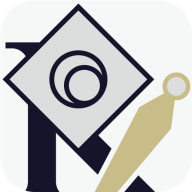
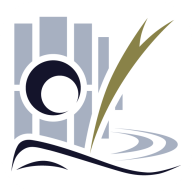
トップを新規に作り直した

diff --git a/src/components/templates/home/Top/WindEffect/index.module.scss b/src/components/templates/home/Top/WindEffect/index.module.scss
@@ -1,0 +1,70 @@
+.container {
+  position: absolute;
+  width: 100%;
+  height: 100%;
+}
+
+.effect {
+  position: absolute;
+  width: 100%;
+  height: 100%;
+  transform: scale(4);
+
+  &.layer1 {
+    left: 0;
+    animation-name: loop1;
+    animation-play-state: running;
+    animation-timing-function: ease-out;
+    animation-iteration-count: infinite;
+    animation-duration: 16s;
+    animation-direction: normal;
+    animation-fill-mode: both;
+    animation-delay: 8s;
+  }
+
+  &.layer2 {
+    right: 0;
+    animation-name: loop2;
+    animation-play-state: running;
+    animation-timing-function: ease-out;
+    animation-iteration-count: infinite;
+    animation-duration: 16s;
+    animation-direction: normal;
+    animation-fill-mode: both;
+    animation-delay: 0s;
+  }
+}
+
+@keyframes loop1 {
+  0% {
+    transform: translateX(-100%);
+    opacity: 0;
+  }
+  20% {
+    opacity: 1;
+  }
+  80% {
+    opacity: 1;
+  }
+  100% {
+    transform: translateX(0%);
+    opacity: 0;
+  }
+}
+
+@keyframes loop2 {
+  0% {
+    transform: translateX(100%);
+    opacity: 0;
+  }
+  20% {
+    opacity: 1;
+  }
+  80% {
+    opacity: 1;
+  }
+  100% {
+    transform: translateX(0%);
+    opacity: 0;
+  }
+}

diff --git a/src/components/templates/home/Top/index.tsx b/src/components/templates/home/Top/index.tsx
@@ -1,12 +1,23 @@
 import styles from "./index.module.scss";
 import Background from "./Background";
+import HoleEffect from "./HoleEffect";
+import Shadow from "./Shadow";
+import WindEffect from "./WindEffect";
 import Logo from "./Logo";
-import { getComponentTemplate } from "src/lib/component";
+import { assignClasses, getComponentTemplate } from "src/lib/component";
+import FixedParallax from "src/components/accessories/FixedParallax";
 
 const Top = getComponentTemplate(() => (
   <div className={styles.container}>
-    <Background className={styles.background} />
-    <Logo className={styles.logo} />
+    <FixedParallax className={styles.parallax} startInnerOrigin={0} endInnerOrigin={-0.8}>
+      <div className={styles.inner}>
+        <Background className={styles.background} />
+        <HoleEffect className={styles.holeEffect} />
+      </div>
+    </FixedParallax>
+    <WindEffect className={assignClasses(styles.windEffect, styles.element)} />
+    <Shadow className={assignClasses(styles.shadow, styles.element)} />
+    <Logo className={assignClasses(styles.logo, styles.element)} />
   </div>
 ));
 

diff --git a/src/components/templates/home/Top/Background/index.tsx b/src/components/templates/home/Top/Background/index.tsx
@@ -1,24 +1,8 @@
-import { useState } from "react";
 import styles from "./index.module.scss";
 import { assignClasses, getComponentTemplate } from "src/lib/component";
-import FixedParallax from "src/components/accessories/FixedParallax";
 
-const Background = getComponentTemplate(() => {
-  const [display, setDisplay] = useState<boolean>(false);
-  const onDisplay = () => setDisplay(true);
-
-  return (
-    <FixedParallax className={styles.parallax} startInnerOrigin={0} endInnerOrigin={-0.5}>
-      <div className={styles.inner} ref={onDisplay}>
-        <img
-          className={assignClasses(styles.image, display ? styles.active : styles.inactive)}
-          src="/img/top.jpg"
-          alt="トップ画像"
-        />
-        <div className={assignClasses(styles.effect, display ? styles.active : styles.inactive)} />
-      </div>
-    </FixedParallax>
-  );
-});
+const Background = getComponentTemplate(() => (
+  <img className={assignClasses(styles.image)} src="/img/top/background.jpg" alt="背景" />
+));
 
 export default Background;

diff --git a/src/components/templates/home/Top/Logo/index.module.scss b/src/components/templates/home/Top/Logo/index.module.scss
@@ -1,24 +1,43 @@
-.fixer {
-  position: relative;
-  width: 100%;
-  height: 100%;
-  bottom: -25%;
-  transition: opacity 0.6s ease-out 1s, left 0.6s ease-out 1s;
+.container {
+  position: absolute;
+  width: 50%;
+  top: 0;
+  left: 50%;
+  transform: translateX(-50%);
 
-  &.inactive {
-    left: 5%;
-    opacity: 0;
-  }
-
-  &.active {
-    left: 0;
-    opacity: 1;
-  }
-
-  img {
-    object-fit: contain;
+  .background {
     width: 100%;
-    height: 100%;
-    object-position: bottom left;
+
+    .image {
+      width: 100%;
+    }
+  }
+
+  .main {
+    position: absolute;
+    width: 20%;
+    left: 50%;
+    bottom: 40%;
+    transform: translateX(-50%);
+
+    .logo {
+      width: 100%;
+      height: 100%;
+    }
+
+    .name {
+      font-family: fot-tsukubrdgothic-std, sans-serif;
+      font-weight: 400;
+      font-style: normal;
+      color: #a7b0c1;
+      font-size: 2rem;
+      text-align: center;
+      letter-spacing: 1rem;
+
+      &::after {
+        content: "";
+        margin-right: -1rem;
+      }
+    }
   }
 }

diff --git a/src/components/templates/home/Top/Logo/index.tsx b/src/components/templates/home/Top/Logo/index.tsx
@@ -1,16 +1,17 @@
-import React, { useState } from "react";
+import React from "react";
 import styles from "./index.module.scss";
-import { assignClasses, getComponentTemplate } from "src/lib/component";
+import { getComponentTemplate } from "src/lib/component";
 
-const Logo = getComponentTemplate(() => {
-  const [display, setDisplay] = useState<boolean>(false);
-  const onDisplay = () => setDisplay(true);
-
-  return (
-    <div className={assignClasses(styles.fixer, display ? styles.active : styles.inactive)} ref={onDisplay}>
-      <img src="/img/logo.png" className={styles.image} alt="" />
+const Logo = getComponentTemplate(() => (
+  <div className={styles.container}>
+    <div className={styles.background}>
+      <img className={styles.image} src="/img/top/logo_back.svg" alt="" />
     </div>
-  );
-});
+    <div className={styles.main}>
+      <img className={styles.logo} src="/img/logo.png" alt="" />
+      <h1 className={styles.name}>RineaR</h1>
+    </div>
+  </div>
+));
 
 export default Logo;

diff --git a/src/components/templates/home/Top/Background/index.module.scss b/src/components/templates/home/Top/Background/index.module.scss
@@ -1,46 +1,4 @@
-@use "src/styles/templates";
-
-.parallax {
+.image {
   width: 100%;
   height: 100%;
-
-  .inner {
-    position: relative;
-    width: 100%;
-    height: 100%;
-
-    .image {
-      position: absolute;
-      width: 100%;
-      height: 100%;
-      object-fit: cover;
-      transition: transform 0.6s cubic-bezier(0.5, 1, 0.89, 1) 0s;
-
-      &.inactive {
-        transform: scale(1.3) translateY(10%);
-      }
-
-      &.active {
-        transform: scale(1) translateY(0);
-      }
-    }
-
-    .effect {
-      position: absolute;
-      width: 100%;
-      height: 100%;
-      background-image: radial-gradient(rgba(#16162c, 0%) 0%, #16162c 30%);
-      transition: opacity 1s cubic-bezier(0.76, 0, 0.24, 1) 0.5s, transform 0.6s cubic-bezier(0.5, 1, 0.89, 1) 0s;
-
-      &.inactive {
-        transform: scale(1);
-        opacity: 1;
-      }
-
-      &.active {
-        transform: scale(4);
-        opacity: 0.4;
-      }
-    }
-  }
 }

diff --git a/src/components/templates/home/Top/index.module.scss b/src/components/templates/home/Top/index.module.scss
@@ -1,21 +1,36 @@
 .container {
-  position: relative;
   width: 100%;
-  height: 100%;
+  height: calc(100vw * 0.9);
 }
 
-.background {
-  position: relative;
-  z-index: 1;
+.parallax {
+  position: absolute;
+  height: 100%;
+
+  .inner {
+    position: relative;
+    height: 100%;
+
+    .background {
+      position: absolute;
+      height: 100%;
+      width: 100%;
+    }
+
+    .holeEffect {
+      position: absolute;
+      width: 100%;
+      height: 100%;
+    }
+  }
+}
+
+.element {
+  position: absolute;
   width: 100%;
   height: 100%;
 }
 
 .logo {
   position: absolute;
-  z-index: 2;
-  height: 60vw * 0.625 * 0.75;
-  width: 60vw;
-  left: 0;
-  bottom: 0;
 }

diff --git a/src/components/templates/home/Top/WindEffect/index.tsx b/src/components/templates/home/Top/WindEffect/index.tsx
@@ -1,0 +1,19 @@
+import styles from "./index.module.scss";
+import { assignClasses, getComponentTemplate } from "src/lib/component";
+
+const WindEffect = getComponentTemplate(() => (
+  <div className={styles.container}>
+    <img
+      className={assignClasses(styles.effect, styles.layer1)}
+      src={"/img/top/wind_effect.png"}
+      alt={"風のエフェクト"}
+    />
+    <img
+      className={assignClasses(styles.effect, styles.layer2)}
+      src={"/img/top/wind_effect.png"}
+      alt={"風のエフェクト"}
+    />
+  </div>
+));
+
+export default WindEffect;

diff --git a/src/components/templates/home/Top/HoleEffect/index.module.scss b/src/components/templates/home/Top/HoleEffect/index.module.scss
@@ -1,0 +1,27 @@
+@mixin keyframes($animation-name) {
+  @keyframes #{$animation-name} {
+    @content;
+  }
+}
+
+@include keyframes(loop1) {
+  0% {
+    transform: scale(1);
+  }
+  100% {
+    transform: scale(1.05);
+  }
+}
+
+.image {
+  width: 100%;
+  height: 100%;
+  animation-delay: 0s;
+  animation-direction: alternate;
+  animation-duration: 3s;
+  animation-fill-mode: both;
+  animation-iteration-count: infinite;
+  animation-timing-function: ease-in-out;
+  animation-play-state: running;
+  animation-name: loop1;
+}

diff --git a/src/components/templates/home/index.tsx b/src/components/templates/home/index.tsx
@@ -16,7 +16,7 @@ export default function HomePageTemplate({ news }: HomePageTemplateParams): JSX.
         <title>RineaR</title>
       </Head>
       <Top className={styles.top} />
-      <Body className={styles.body} news={news} />
+      {/*<Body className={styles.body} news={news} />*/}
     </div>
   );
 }

diff --git a/src/components/templates/home/Top/HoleEffect/index.tsx b/src/components/templates/home/Top/HoleEffect/index.tsx
@@ -1,0 +1,8 @@
+import styles from "./index.module.scss";
+import { getComponentTemplate } from "src/lib/component";
+
+const HoleEffect = getComponentTemplate(() => (
+  <img className={styles.image} src="/img/top/hole_effect.png" alt="背景" />
+));
+
+export default HoleEffect;

diff --git a/src/components/templates/home/Top/Shadow/index.tsx b/src/components/templates/home/Top/Shadow/index.tsx
@@ -1,0 +1,6 @@
+import styles from "./index.module.scss";
+import { getComponentTemplate } from "src/lib/component";
+
+const Shadow = getComponentTemplate(() => <img className={styles.image} src="/img/top/shadow.png" alt="トップ画像1" />);
+
+export default Shadow;
